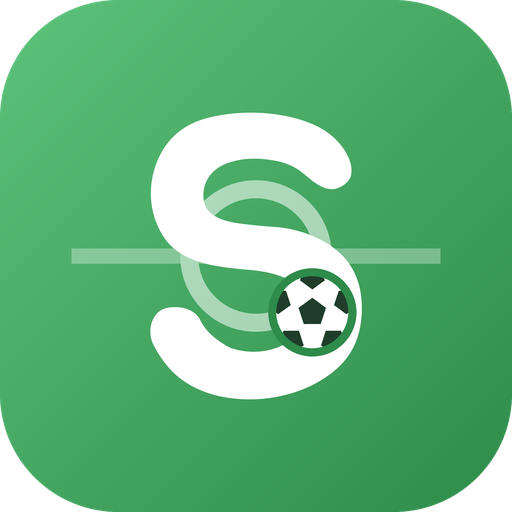
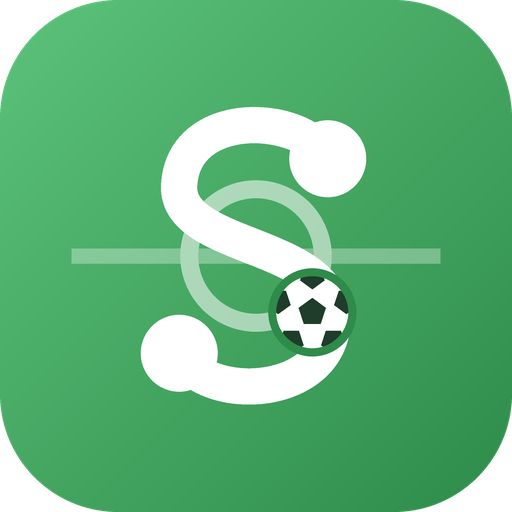
[update] アイコンとロゴの S を、文字の S と同じ向きの線のカーブにそろえる（ロゴの S も線の S に）

diff --git a/tools/icon.py b/tools/icon.py
@@ -2,14 +2,15 @@
 """さくせん盤（SAQSEN）のアイコンを作る。
 
 おくるん（OQRN）のアイコンと同じ角の丸い四角に、ピッチの緑のグラデーション。
-中は、ロゴ（logo.svg）と同じ Jua の白い「S」。後ろにうっすらピッチの線（ハーフウェーラインとセンターサークル）。
+中は、白い S 字の作戦の線（パスの通り道）と、その両端の選手2人。後ろにうっすらピッチの線（ハーフウェーラインとセンターサークル）。
+S 字は「さくせん（SAQSEN）」の S も兼ねる。作戦盤の線と同じく矢印は付けない。
 センターサークルの右下にサッカーボールを置き、サークル（輪）＋ボール（しっぽ）で Q にも見せる（SAQSEN の Q）。
 
   icon.svg             … ファビコン
   apple-touch-icon.png … iPhone のホーム画面（180px）
   icon-512.png         … 大きいアイコン（512px）
-  logo.svg             … 横長のロゴ「SAQSEN」。ピッチ（盤）の上に文字を並べ、Q はセンターサークル＋右下のボール。
-                         S・A・E・N の字形は Jua（SIL Open Font License 1.1、~/Library/Fonts/Jua.ttf。おくるんのロゴと同じ）。fontTools が必要
+  logo.svg             … 横長のロゴ「SAQSEN」。ピッチ（盤）の上に文字を並べ、Q はセンターサークル＋右下のボール、
+                         S はアイコンと同じ線の S（作戦の線＋両端の選手）。A・E・N の字形は Jua（SIL Open Font License 1.1、~/Library/Fonts/Jua.ttf。おくるんのロゴと同じ）。fontTools が必要
 
 Pillow が必要。使い方: python3 tools/icon.py
 """
@@ -26,9 +27,15 @@ WHITE = (255, 255, 255)
 
 # 形（100 × 100 の座標）
 RADIUS = 23  # 角の丸み（おくるんと同じ）
-S_HEIGHT = 56  # S（ロゴと同じ Jua の字形）の高さ。アイコンの真ん中に置く
+# S 字（3次ベジェを3つ）：文字の S と同じ向き。右上の選手から左へ回り、まん中を右へ下り、下で左へ回って左下の選手で終わる
+S_PATHS = (
+    ((64, 31), (59, 22), (36, 21), (35, 36)),
+    ((35, 36), (34, 49), (65, 47), (65, 62)),
+    ((65, 62), (65, 78), (40, 79), (35, 69)),
+)
+S_WIDTH = 7
+PLAYER_R = 7.5
 FAINT = 0.32  # ピッチの線の濃さ
-FONT_PATH = Path.home() / "Library" / "Fonts" / "Jua.ttf"
 CIRCLE = (50, 50, 13)  # センターサークル（中心 x, y, 半径）
 CIRCLE_ALPHA = 0.55  # サークルはハーフウェーラインより濃く（ボールと合わせて Q に見せる）
 BALL = (61, 61, 7)  # ボール：サークルの右下（45°）のふちに重ねる＝Q のしっぽ
@@ -50,28 +57,10 @@ def ball_patches(ball=BALL):
     return [pentagon(cx, cy, r * 0.4), *outer]
 
 
-def s_glyph():
-    """ロゴと同じ Jua の「S」を、高さ S_HEIGHT でアイコンの真ん中に置く。SVG のパスと、PIL で描くための位置を返す"""
-    from fontTools.pens.boundsPen import BoundsPen
-    from fontTools.pens.svgPathPen import SVGPathPen
-    from fontTools.pens.transformPen import TransformPen
-    from fontTools.ttLib import TTFont
-
-    font = TTFont(str(FONT_PATH))
-    glyphs = font.getGlyphSet()
-    name = font.getBestCmap()[ord("S")]
-    pen = BoundsPen(glyphs)
-    glyphs[name].draw(pen)
-    x_min, y_min, x_max, y_max = pen.bounds
-    k = S_HEIGHT / (y_max - y_min)
-    ox = 50 - (x_min + x_max) / 2 * k  # フォントの原点が来る x
-    top = 50 - S_HEIGHT / 2
-    path = SVGPathPen(glyphs)
-    glyphs[name].draw(TransformPen(path, (k, 0, 0, -k, ox, top + y_max * k)))
-    return dict(d=path.getCommands(), origin=ox, baseline=top + y_max * k, em=font["head"].unitsPerEm * k)
-
-
 def svg():
+    x0, y0 = S_PATHS[0][0]
+    x3, y3 = S_PATHS[-1][-1]
+    s_d = f"M{x0} {y0}" + "".join(f"C{a[0]} {a[1]} {b[0]} {b[1]} {c[0]} {c[1]}" for _, a, b, c in S_PATHS)
     faint = f'stroke="#ffffff" stroke-opacity="{FAINT}" stroke-width="3" fill="none"'
     return (
         '<svg xmlns="http://www.w3.org/2000/svg" viewBox="0 0 100 100">'
@@ -79,14 +68,25 @@ def svg():
         f'<stop offset="1" stop-color="{hex_(PITCH_DARK)}"/></linearGradient></defs>'
         f'<rect width="100" height="100" rx="{RADIUS}" fill="url(#g)"/>'
         f'<path d="M14 50H86" {faint}/><circle cx="{CIRCLE[0]}" cy="{CIRCLE[1]}" r="{CIRCLE[2]}" stroke="#ffffff" stroke-opacity="{CIRCLE_ALPHA}" stroke-width="3.5" fill="none"/>'
-        f'<path d="{s_glyph()["d"]}" fill="#ffffff"/>'
-        f'<circle cx="{BALL[0]}" cy="{BALL[1]}" r="{BALL[2] + 1.6}" fill="{hex_(PITCH_DARK)}"/>'
+        f'<path d="{s_d}" stroke="#ffffff" stroke-width="{S_WIDTH}" stroke-linecap="round" fill="none"/>'
+        f'<circle cx="{x0}" cy="{y0}" r="{PLAYER_R}" fill="#ffffff"/><circle cx="{x3}" cy="{y3}" r="{PLAYER_R}" fill="#ffffff"/>'
         f'<clipPath id="b"><circle cx="{BALL[0]}" cy="{BALL[1]}" r="{BALL[2]}"/></clipPath>'
+        f'<circle cx="{BALL[0]}" cy="{BALL[1]}" r="{BALL[2] + 1.6}" fill="{hex_(PITCH_DARK)}"/>'
         f'<circle cx="{BALL[0]}" cy="{BALL[1]}" r="{BALL[2]}" fill="#ffffff"/>'
         f'<g clip-path="url(#b)" fill="{hex_(BALL_INK)}">'
         + "".join('<polygon points="' + " ".join(f"{x:.2f},{y:.2f}" for x, y in poly) + '"/>' for poly in ball_patches())
         + "</g></svg>"
     )
+
+
+def cubic(points, n=200):
+    (x0, y0), (x1, y1), (x2, y2), (x3, y3) = points
+    out = []
+    for i in range(n + 1):
+        t = i / n
+        a, b, c, d = (1 - t) ** 3, 3 * (1 - t) ** 2 * t, 3 * (1 - t) * t * t, t ** 3
+        out.append((a * x0 + b * x1 + c * x2 + d * x3, a * y0 + b * y1 + c * y2 + d * y3))
+    return out
 
 
 def png(size, rounded=True):
@@ -113,14 +113,17 @@ def png(size, rounded=True):
     cx, cy, r = CIRCLE
     d.ellipse((s(cx - r) - s(1.75), s(cy - r) - s(1.75), s(cx + r) + s(1.75), s(cy + r) + s(1.75)), outline=(255, 255, 255, round(255 * CIRCLE_ALPHA)), width=round(s(3.5)))
     img = Image.alpha_composite(img, lines)
-    # S（ロゴと同じ字形）
-    from PIL import ImageFont
-
+    # S 字の線（丸い端）と選手2人
     d = ImageDraw.Draw(img)
-    g = s_glyph()
-    d.text((s(g["origin"]), s(g["baseline"])), "S", font=ImageFont.truetype(str(FONT_PATH), round(s(g["em"]))), fill=WHITE, anchor="ls")
-    # サークルの右下のボール（Q のしっぽ）。S と重なっても見分けられるよう、まわりを濃い緑で囲む
+    # 線は丸を細かく並べて描く（太い線でもふちがなめらか）
+    half = s(S_WIDTH) / 2
+    for x, y in (pt for seg in S_PATHS for pt in cubic(seg, n=800)):
+        d.ellipse((s(x) - half, s(y) - half, s(x) + half, s(y) + half), fill=WHITE)
+    for x, y in (S_PATHS[0][0], S_PATHS[-1][-1]):
+        d.ellipse((s(x - PLAYER_R), s(y - PLAYER_R), s(x + PLAYER_R), s(y + PLAYER_R)), fill=WHITE)
+    # サークルの右下のボール（Q のしっぽ）
     bx, by, br = BALL
+    # S の線と重なっても見分けられるよう、まわりを濃い緑で囲む
     d.ellipse((s(bx - br - 1.6), s(by - br - 1.6), s(bx + br + 1.6), s(by + br + 1.6)), fill=PITCH_DARK)
     d.ellipse((s(bx - br), s(by - br), s(bx + br), s(by + br)), fill=WHITE)
     big_ = img.size[0]
@@ -135,6 +138,9 @@ def png(size, rounded=True):
 
 
 # ---- 横長のロゴ「SAQSEN」（盤の上の文字。Q＝センターサークル＋ボール） ----
+
+FONT_PATH = Path.home() / "Library" / "Fonts" / "Jua.ttf"
+
 
 def _num(v):
     return f"{v:.1f}".rstrip("0").rstrip(".")
@@ -160,11 +166,30 @@ def logo_svg():
     gap = h * 0.09
     w = h * 0.2  # Q（センターサークル）の線の太さ（文字の線とそろえる）
     r = h / 2 - w / 2
+    # S はアイコンと同じ線の S（作戦の線＋両端の選手）。アイコンの S の外形（選手の丸を含む）を、文字の高さにそろえる
+    pts = [pt for seg in S_PATHS for pt in cubic(seg)]
+    sx0, sy0 = min(x for x, _ in pts) - S_WIDTH / 2, min(y for _, y in pts) - S_WIDTH / 2
+    sx1, sy1 = max(x for x, _ in pts) + S_WIDTH / 2, max(y for _, y in pts) + S_WIDTH / 2
+    k = h / (sy1 - sy0)
+    s_w = h * 0.17  # 線の太さ（字の線に近づける）
+    s_dot = h * 0.14  # 選手の丸
+    line_s = []  # 線の S の SVG
     paths, x, q = [], 0.0, None
     for char in "SAQSEN":
         if char == "Q":
             q = (x + r + w / 2, h / 2)
             x += 2 * r + w + gap
+            continue
+        if char == "S":
+            to = lambda pt: (x + (pt[0] - sx0) * k, (pt[1] - sy0) * k)  # noqa: E731
+            ax, ay = to(S_PATHS[0][0])
+            dx, dy = to(S_PATHS[-1][-1])
+            d_ = f"M{_num(ax)} {_num(ay)}" + "".join("C" + " ".join(f"{_num(v)}" for pt in seg[1:] for v in to(pt)) for seg in S_PATHS)
+            line_s.append(
+                f'<path d="{d_}" stroke="#ffffff" stroke-width="{_num(s_w)}" stroke-linecap="round" fill="none"/>'
+                f'<circle cx="{_num(ax)}" cy="{_num(ay)}" r="{_num(s_dot)}" fill="#ffffff"/><circle cx="{_num(dx)}" cy="{_num(dy)}" r="{_num(s_dot)}" fill="#ffffff"/>'
+            )
+            x += (sx1 - sx0) * k + gap
             continue
         b = bounds(char)
         origin = x - b[0]
@@ -198,8 +223,8 @@ def logo_svg():
         f'<path d="M{_num(qx)} {_num(y0 + inset)}V{_num(y0 + height - inset)}" {line}/>'
         f'<path d="M{_num(x0 + inset)} {_num(qy - box_h / 2)}h{_num(box_d)}v{_num(box_h)}h{_num(-box_d)}" {line}/>'
         f'<path d="M{_num(x0 + width - inset)} {_num(qy - box_h / 2)}h{_num(-box_d)}v{_num(box_h)}h{_num(box_d)}" {line}/>'
-        # 文字（S・A・S・E・N）と、Q＝センターサークル＋ボール
-        f'<g fill="#ffffff">' + "".join(f'<path d="{d}"/>' for d in paths) + "</g>"
+        # 文字（A・E・N は Jua、S はアイコンと同じ線の S）と、Q＝センターサークル＋ボール
+        f'<g fill="#ffffff">' + "".join(f'<path d="{d}"/>' for d in paths) + "</g>" + "".join(line_s) +
         f'<circle cx="{_num(qx)}" cy="{_num(qy)}" r="{_num(r)}" fill="none" stroke="#ffffff" stroke-width="{_num(w)}"/>'
         f'<circle cx="{_num(bx)}" cy="{_num(by)}" r="{_num(br + w * 0.35)}" fill="{hex_(PITCH_DARK)}"/>'
         f'<circle cx="{_num(bx)}" cy="{_num(by)}" r="{_num(br)}" fill="#ffffff"/>'

diff --git a/README.md b/README.md
@@ -2,9 +2,9 @@
 
 サッカー・フットサルのスタメン発表・作戦盤・試合結果のツール。名前は「さくせん盤」（英字は SAQSEN。おくるん＝OQRN と同じ作り方）。ふだん見せるのはひらがなの「さくせん盤」、英字は見出しの下の小さな文字やロゴに使う。送るカードはおくるんで作る。
 
-アイコン（`icon.svg`・`apple-touch-icon.png`・`icon-512.png`）は `python3 tools/icon.py` で作る：おくるんと同じ角の丸い四角に、ピッチの緑。ロゴと同じ Jua の白い「S」、うっすらピッチの線。センターサークルの右下にサッカーボールを置き、サークル＋ボールで Q にも見せる（SAQSEN の Q。ロゴと同じ作り）。
+アイコン（`icon.svg`・`apple-touch-icon.png`・`icon-512.png`）は `python3 tools/icon.py` で作る：おくるんと同じ角の丸い四角に、ピッチの緑。白い S 字の作戦の線（文字の S と同じ向きのカーブ。パスの通り道で、さくせんの S）と両端の選手2人、うっすらピッチの線。センターサークルの右下にサッカーボールを置き、サークル＋ボールで Q にも見せる（SAQSEN の Q）。
 
-横長のロゴ（`logo.svg`）も同じスクリプトで作る：ピッチ（盤）の上に「SAQSEN」を白い字で並べ、Q はセンターサークル（ハーフウェーラインの真ん中）＋右下のボール。見出しの下に出す。
+横長のロゴ（`logo.svg`）も同じスクリプトで作る：ピッチ（盤）の上に「SAQSEN」を白い字で並べ、S はアイコンと同じ線の S、Q はセンターサークル（ハーフウェーラインの真ん中）＋右下のボール。見出しの下に出す。
 
 サッカー・フットサルのスタメン発表と作戦盤。選手をピッチに並べて、[おくるん](https://katsuan.github.io/line-share/)の「お知らせカード」で LINE にカードとして送れます。試合結果のカードも作れます。GitHub Pages でそのまま動く静的サイトです。
 
